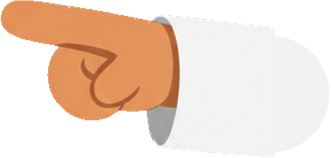
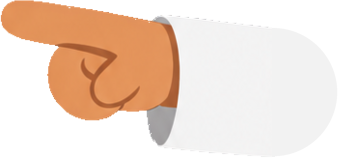
Lan: khuỷu tay chỉ liền mạch khi cử động, không còn tách thành hai khối
- Khớp khuỷu của tay chỉ đặt đúng giữa ống tay áo, vòng khớp bằng bề dày ống tay: khi cẳng tay nhấc lên hạ xuống, chỗ gập là một đường cong liền

Claude-Session: https://claude.ai/code/session_01KE7T9iurw6JNVmRrpUeRTW

diff --git a/remotion-remake/src/fedtoon/cast-rigs.ts b/remotion-remake/src/fedtoon/cast-rigs.ts
@@ -953,8 +953,8 @@ export const CAST_RIGS: Record<string, CharacterRig> = {
       "arm-l-lower": {
         "x": 59,
         "y": 582,
-        "w": 332,
-        "h": 158
+        "w": 340,
+        "h": 159
       },
       "arm-l-upper": {
         "x": 331,
@@ -1026,8 +1026,8 @@ export const CAST_RIGS: Record<string, CharacterRig> = {
           {
             "part": "arm-l-lower",
             "pivot": [
-              330,
-              676
+              332,
+              674
             ]
           }
         ],

diff --git a/docs/ke-hoach-dung-video-hoat-hinh.md b/docs/ke-hoach-dung-video-hoat-hinh.md
@@ -13,7 +13,7 @@
 | Bộ nhận diện | `remotion-remake/src/fedtoon/brand.ts` | Bảng màu, font Nunito, mô tả phong cách ảnh (sửa được ở tab Cài đặt: `FEDTOON_IMAGE_STYLE`) |
 | Nhân vật (hướng C) | `remotion-remake/src/remotion/fedtoon/Puppet.tsx`, `src/fedtoon/cast.ts` | 05/11: kênh quốc tế (tiếng Anh): nhân vật phụ dùng id/tên tiếng Anh, chỉ minh hoạ cho lời thoại (không tên, không vai, không nói, không gọi tên nhau); `finalizeStoryboard` đặt người nói là người dẫn hoặc Fed, id cũ (mai, tuan…) vẫn đọc được. |
 | Nhân vật vẽ bằng code | `remotion-remake/src/remotion/fedtoon/Puppet.tsx` | Nhân vật người vẽ bằng SVG theo ảnh mẫu của chủ kênh `remotion-remake/assets/cast/reference.png` (05/11: cùng phong cách với Fed: đầu to, tai tròn, mắt to có đốm sáng, áo dài tay, quần và giày sẫm). Không cắt ảnh mẫu như Fed vì ảnh nhỏ (mỗi người ~400 px) và mỗi người bị cố định một tư thế. Dàn nhân vật phụ cố định: Mai, Tuấn, Lan, Khoa, Bảo, An, Ông (AI dùng lại theo id, ngoại hình bị khoá); người khác được tuỳ chỉnh da, tóc, màu áo, kiểu áo (len, hoodie, polo), quần (sẫm, jean), phụ kiện; 9 động tác, 6 biểu cảm, chớp mắt, khẩu hình theo mốc thời gian từng từ của ElevenLabs. Xem tất cả: Remotion Studio → `FedtoonCast` |
-| Nhân vật phụ từ ảnh | `remotion-remake/assets/cast/<id>/` → `public/fedtoon/cast/<id>/`, `src/fedtoon/cast-rigs.ts` | 05/11: chủ kênh gửi ảnh nét từng nhân vật, dùng ảnh thay cho bản vẽ code. Đã xong: **woman** (Mai cũ), **man** (Tuấn, làm lại 05/11 với 2 ảnh), **scientist** (Lan, làm lại 05/11: ảnh đứng hai tay buông là rig chính, ảnh chỉ tay → scientist-point cho point/wave/cheer, cùng cỡ), **kid** (An), **grandpa** (Ông); chủ kênh thấy 4 nhân vật sau còn méo nên làm lại từng người, mỗi người thêm một ảnh dáng tự nhiên. Cách làm lại (đã áp dụng cho man): ảnh dáng tự nhiên làm rig chính, ảnh cũ thành rig phụ `<id>-<động tác>` chỉ dùng cho động tác của nó (`poses` trong rig.json, vd. man: wave, cheer → man-wave), miệng cười của rig chính ghép sang rig phụ (`mouthFrom`), `shoulderShare` dồn chuyển động tay vào khuỷu cho vai đỡ lộ đường cắt, `trim` để phần vai ngoài vòng khớp ở lại thân áo; tránh xoay tay góc lớn (`rest`) vì dễ méo. Đường viền tối giữa tay áo và thân áo (`seam` của đoạn tay) tách thành lớp riêng vẽ trên thân áo: chỉ hiện khi tay nép sát thân (động tác idle/talk/wave/point/think, tay lệch dưới ~4 px), tay đưa ra thì ẩn và mép trong tay áo là một đường thẳng mượt theo tâm đường viền; `erase` xoá tay mẩu nhọn còn sót (chủ kênh yêu cầu 05/11: viền chỉ dùng khi tay áo nép sát thân). Nách: bắp tay đưa ra không xoay ở vai (`shoulderShare: 0`, chỉ khuỷu và bàn tay cử động) vì xoay ở vai làm nách hở thành khe nhọn; `elbowRange` giới hạn hạ cẳng tay để khuỷu không khấc; tay buông có mảng lấp nách cong mượt trên thân áo (fill) để khi dang ra khe nách bắt đầu thấp và tròn như nách thật; thân áo phủ tới tâm đường viền để khi viền ẩn không lộ khe. split.py còn: khử viền màu lạ ở mép ảnh tách nền (`defringe`), điểm ảnh mép tay giáp thân đổi về đúng màu nhóm, viền mờ chỉ đi theo bộ phận khi đúng màu vùng của nó, `open` bỏ mẩu mảnh ở mép, lấp viền tay áo (`dilate` fill) giới hạn bằng `polygon` để không tạo dải màu áo quanh bàn tay, lông mày có mép bán trong suốt; hai tay buông đung đưa ngược chiều khi đi. Còn vẽ bằng code: **teen** (Khoa, chưa có ảnh) và **boy** (Bảo: ảnh đang nhảy co chân nên không dựng thành dáng đứng được, cần ảnh đứng thẳng). Mỗi nhân vật có `rig.json`: vùng từng bộ phận (đa giác + nhóm màu), khớp xoay, vòng khớp lấp chỗ hở, mắt, miệng, lông mày; tay giơ trong ảnh có `rest` (góc hạ tay khi nghỉ), `point`, `cap` (vai tròn khi hạ tay); `drawnAction` (động tác của ảnh: man vẫy, scientist chỉ, kid suy nghĩ, grandpa reo hò), `mouthStyle` (miệng trong ảnh: các biểu cảm khác vẽ bằng vector); đoạn tay `front` vẽ trước mặt (tay kid chạm thái dương). `python assets/cast/split.py <id>` cắt ảnh. Fed và nhân vật ảnh dùng chung bộ dựng `src/fedtoon/rig.ts` + `RigPuppet`. Xem: Remotion Studio → `FedtoonMascot` với props `{"id":"man"}`… |
+| Nhân vật phụ từ ảnh | `remotion-remake/assets/cast/<id>/` → `public/fedtoon/cast/<id>/`, `src/fedtoon/cast-rigs.ts` | 05/11: chủ kênh gửi ảnh nét từng nhân vật, dùng ảnh thay cho bản vẽ code. Đã xong: **woman** (Mai cũ), **man** (Tuấn, làm lại 05/11 với 2 ảnh), **scientist** (Lan, làm lại 05/11: ảnh đứng hai tay buông là rig chính, ảnh chỉ tay → scientist-point cho point/wave/cheer, cùng cỡ), **kid** (An), **grandpa** (Ông); chủ kênh thấy 4 nhân vật sau còn méo nên làm lại từng người, mỗi người thêm một ảnh dáng tự nhiên. Cách làm lại (đã áp dụng cho man): ảnh dáng tự nhiên làm rig chính, ảnh cũ thành rig phụ `<id>-<động tác>` chỉ dùng cho động tác của nó (`poses` trong rig.json, vd. man: wave, cheer → man-wave), miệng cười của rig chính ghép sang rig phụ (`mouthFrom`), `shoulderShare` dồn chuyển động tay vào khuỷu cho vai đỡ lộ đường cắt, `trim` để phần vai ngoài vòng khớp ở lại thân áo; tránh xoay tay góc lớn (`rest`) vì dễ méo. Đường viền tối giữa tay áo và thân áo (`seam` của đoạn tay) tách thành lớp riêng vẽ trên thân áo: chỉ hiện khi tay nép sát thân (động tác idle/talk/wave/point/think, tay lệch dưới ~4 px), tay đưa ra thì ẩn và mép trong tay áo là một đường thẳng mượt theo tâm đường viền; `erase` xoá tay mẩu nhọn còn sót (chủ kênh yêu cầu 05/11: viền chỉ dùng khi tay áo nép sát thân). Nách: bắp tay đưa ra không xoay ở vai (`shoulderShare: 0`, chỉ khuỷu và bàn tay cử động) vì xoay ở vai làm nách hở thành khe nhọn; `elbowRange` giới hạn hạ cẳng tay để khuỷu không khấc; tay buông có mảng lấp nách cong mượt trên thân áo (fill) để khi dang ra khe nách bắt đầu thấp và tròn như nách thật; thân áo phủ tới tâm đường viền để khi viền ẩn không lộ khe. split.py còn: khử viền màu lạ ở mép ảnh tách nền (`defringe`), điểm ảnh mép tay giáp thân đổi về đúng màu nhóm, viền mờ chỉ đi theo bộ phận khi đúng màu vùng của nó, `open` bỏ mẩu mảnh ở mép, lấp viền tay áo (`dilate` fill) giới hạn bằng `polygon` để không tạo dải màu áo quanh bàn tay, lông mày có mép bán trong suốt; hai tay buông đung đưa ngược chiều khi đi. Khớp khuỷu của tay thẳng (vd. tay chỉ của scientist): tâm vòng khớp phải nằm trên đường giữa ống tay và bán kính bằng nửa bề dày ống tay, nếu không khi gập sẽ hở thành hai khối rời. Còn vẽ bằng code: **teen** (Khoa, chưa có ảnh) và **boy** (Bảo: ảnh đang nhảy co chân nên không dựng thành dáng đứng được, cần ảnh đứng thẳng). Mỗi nhân vật có `rig.json`: vùng từng bộ phận (đa giác + nhóm màu), khớp xoay, vòng khớp lấp chỗ hở, mắt, miệng, lông mày; tay giơ trong ảnh có `rest` (góc hạ tay khi nghỉ), `point`, `cap` (vai tròn khi hạ tay); `drawnAction` (động tác của ảnh: man vẫy, scientist chỉ, kid suy nghĩ, grandpa reo hò), `mouthStyle` (miệng trong ảnh: các biểu cảm khác vẽ bằng vector); đoạn tay `front` vẽ trước mặt (tay kid chạm thái dương). `python assets/cast/split.py <id>` cắt ảnh. Fed và nhân vật ảnh dùng chung bộ dựng `src/fedtoon/rig.ts` + `RigPuppet`. Xem: Remotion Studio → `FedtoonMascot` với props `{"id":"man"}`… |
 | Linh vật Fed | `remotion-remake/assets/mascot/` → `public/fedtoon/mascot/` | Ảnh do chủ kênh tự tạo (05/11), giữ nguyên nét vẽ. `split.py` cắt ảnh thành tay buông, cẳng tay đang giơ, thân, đầu, miệng, hai lông mày và sinh `src/fedtoon/mascot-rig.ts` (vị trí, khớp xoay). Remotion xoay đầu quanh cổ, cẳng tay quanh khuỷu, tay buông quanh vai; mí mắt vẽ đè để chớp mắt, miệng co giãn theo giọng đọc, lông mày đổi theo biểu cảm. Chân không cử động (đi bộ = nhún + trượt). Xem: Remotion Studio → `FedtoonMascot`. Đổi ảnh linh vật: thay `source.png`, đo lại toạ độ trong `split.py`, chạy `python assets/mascot/split.py` (cần Pillow + numpy) |
 | Kịch bản theo cảnh | `remotion-remake/src/spec/storyboard.ts`, `src/pipeline/storyboard-ai.ts` | AI (Claude/OpenAI) viết: lời thoại (chế độ **Bản sao** chép đúng từng câu theo phụ đề, app báo % từ giữ được; **Remix** viết mới), người nói, mô tả nền, góc máy, nhân vật + động tác + biểu cảm, đồ vật, chữ, chuyển cảnh, hiệu ứng âm thanh |
 | Vẽ ảnh (hướng A) | `remotion-remake/src/pipeline/images.ts` | `gpt-image-2.5-sunburst` mặc định (đổi được), nền 9:16 đúng khung, đồ vật nền trong suốt; mỗi ảnh vẽ một lần; ảnh bị từ chối được thay bằng hình vẽ sẵn |
